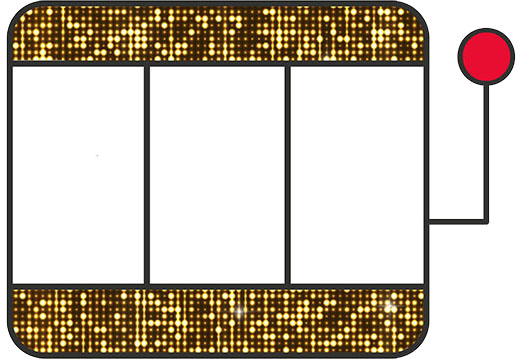
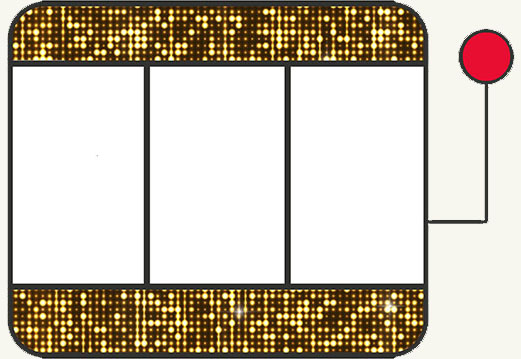
adjust background color

diff --git a/css/styles.css b/css/styles.css
@@ -1,6 +1,9 @@
+/*MAIN/CONTAINER
+*/
 body {
   font-family: 'Cormorant SC', serif;
   position: relative;
+  background: #F7F7EF;
 }
 
 #main-container {
@@ -8,15 +11,8 @@ body {
   margin: auto;
 }
 
-h1 {
-  font-family: 'Great Vibes', cursive;
-  font-size: 34px;
-  position: relative;
-  top: 150px;
-  left: 75px;
-  visibility: hidden;
-}
-
+/*PAYOUT AND BANK DISPLAYS
+*/
 #display-payout {
   width: 200px;
   height: 100px;
@@ -87,10 +83,12 @@ h1 {
   margin: 300px auto auto 270px;
 }
 
+/*MAIN IMAGE AND REELS
+*/
 main {
   width: 700px;
   height: 359px;
-  background: url("../images/slot_machine2.jpg");
+  background: url("../images/slot_machine.jpg");
   background-repeat: no-repeat;
   background-position: center;
   position: absolute;
@@ -108,6 +106,31 @@ main {
   padding-top: 65px;
 }
 
+#reel1 {
+  margin-left: 95px;
+}
+
+#reel2 {
+  margin-left: 236px;
+}
+
+#reel3 {
+  margin-left: 375px;
+}
+
+/*'PLAY AGAIN' HEADER
+*/
+h1 {
+  font-family: 'Great Vibes', cursive;
+  font-size: 34px;
+  position: relative;
+  top: 150px;
+  left: 75px;
+  visibility: hidden;
+}
+
+/*'WIN' ANIMATION
+*/
 .rotate {
     position: absolute;
     top: 50%;
@@ -123,18 +146,8 @@ main {
 @-webkit-keyframes spin { 100% { -webkit-transform: rotate(360deg); } }
 @keyframes spin { 100% { -webkit-transform: rotate(360deg); transform:rotate(360deg); } }
 
-#reel1 {
-  margin-left: 95px;
-}
-
-#reel2 {
-  margin-left: 236px;
-}
-
-#reel3 {
-  margin-left: 375px;
-}
-
+/*BUTTONS
+*/
 #place-bet {
   font-family: 'Great Vibes', cursive;
   font-size: 30px;
@@ -183,3 +196,12 @@ main {
   margin-top: -245px;
   margin-left: 420px;
 }
+
+/*MEDIA QUERIES
+*/
+/*@media (max-width: 600px) {
+  .buttons {
+    display: block;
+  }
+}
+*/

diff --git a/js/main.js b/js/main.js
@@ -16,7 +16,7 @@ var symbols = [
   }, {
     name: 'Cherry',
     image: 'images/cherry.png',
-    pays: 35
+    pays: 25
   }, {
     name: 'Chart',
     image: 'images/chart-upward-trend.png',
@@ -94,6 +94,7 @@ var intervalId
 var intervalId2
 var intervalId3
 var intervalId4
+var intervalId5
 
 function spin(){
   intervalId =  setInterval(function(){
@@ -105,6 +106,10 @@ function spin(){
   intervalId3 =  setInterval(function(){
       $('#reelImage2').attr('src', symbols[distribution[Math.floor(Math.random() * distribution.length)]].image);
     },100);
+  // intervalId5 = setInterval(function(){
+  //   var song = new Audio('audio/DinotopiaWavefile_1_.mp3');
+  //   song.play();
+  // });
 }
 
 function render() {
@@ -124,9 +129,9 @@ function render() {
     $('#payout').html(payout);
     $('#bank').html(bank);
   },3000);
-  setTimeout(function(){
-    $('audio')
-  })
+  // setTimeout(function(){
+  //   clearInterval(intervalId5);
+  // },3000);
 };
 
 function renderWin(){

diff --git a/index.html b/index.html
@@ -17,8 +17,6 @@
 
   <h1>Refresh to play again!</h1>
 
-<!--   <audio src="../audio/DinotopiaWavefile_1_.mp3"></audio> -->
-
   <article id="display-payout">
     <h2 class="headings">Payout</h2>
     <p id="dollar-pay">$</p>
